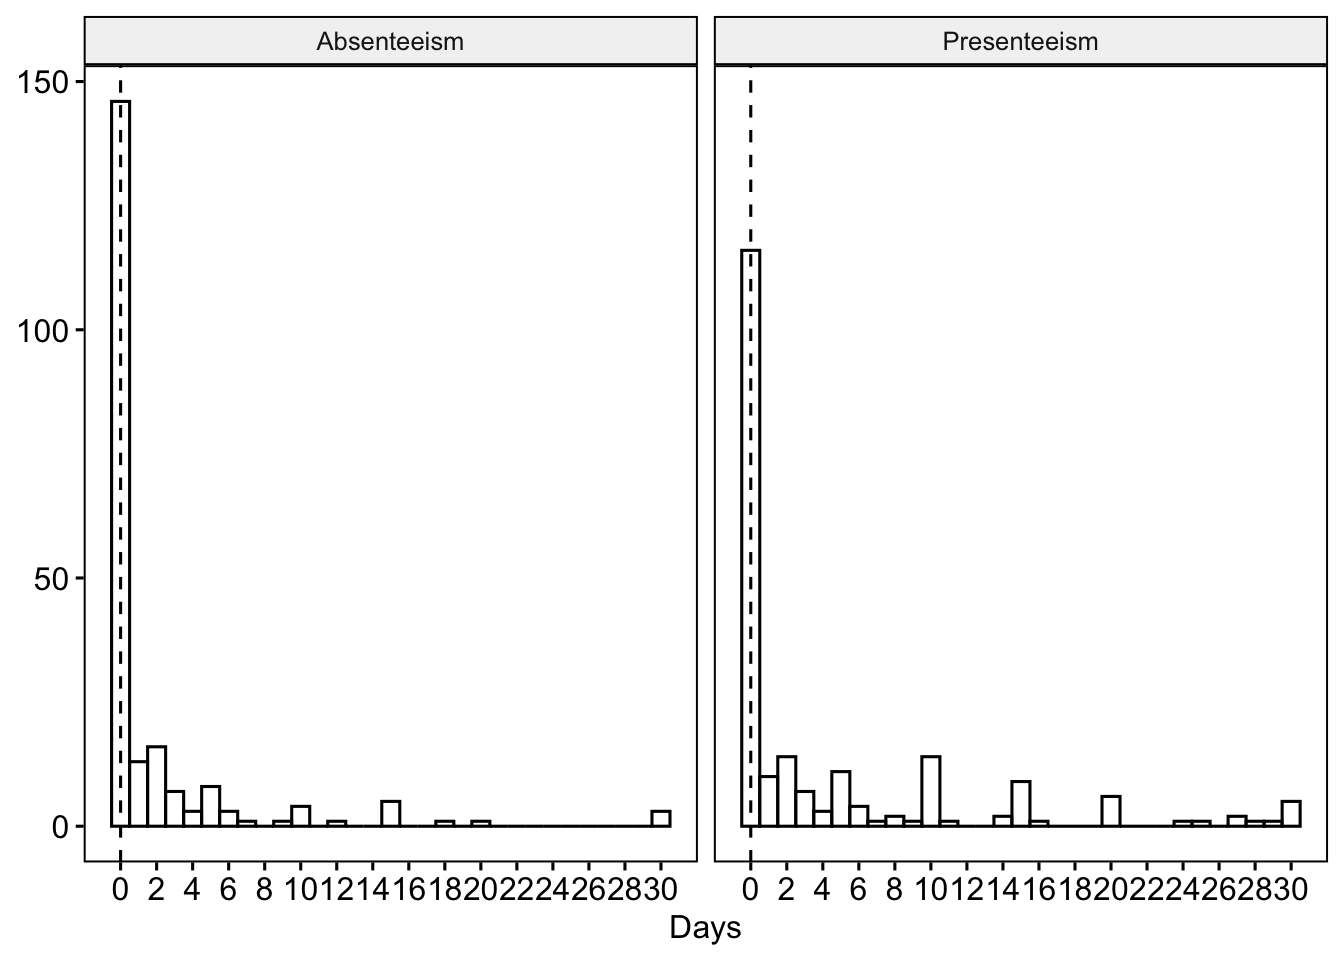
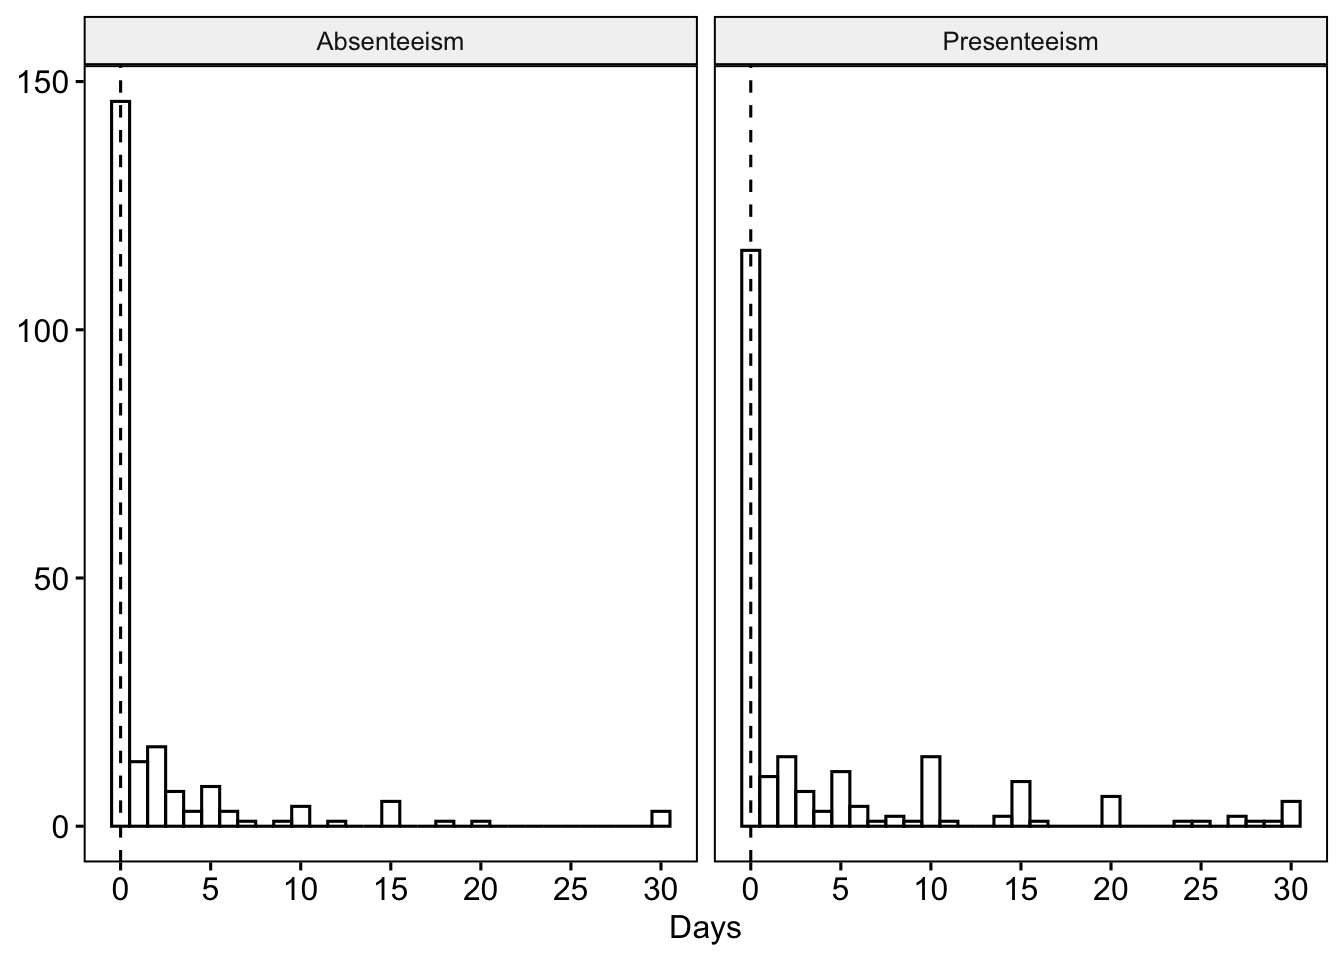
update univariate

diff --git a/docs/posts/icare.html b/docs/posts/icare.html
@@ -183,10 +183,6 @@ pre > code.sourceCode > span > a:first-child::before { text-decoration: underlin
 </li>
       </ul>
   </li>
-        <li class="sidebar-item sidebar-item-section">
-      <span class="sidebar-item-text sidebar-link text-start">
- <span class="menu-text">Analyses</span></span>
-  </li>
     </ul>
     </div>
 </nav>
@@ -217,7 +213,7 @@ pre > code.sourceCode > span > a:first-child::before { text-decoration: underlin
 
 <section id="modelling-alcohol-and-other-drug-use-psychological-distress-and-occupational-functioning-in-australian-public-safety-personnel" class="level2">
 <h2 class="anchored" data-anchor-id="modelling-alcohol-and-other-drug-use-psychological-distress-and-occupational-functioning-in-australian-public-safety-personnel">Modelling Alcohol and Other Drug Use, Psychological Distress, and Occupational Functioning in Australian Public Safety Personnel</h2>
-<p>(full script at bottom of page)</p>
+<p>(full script at bottom of page to come)</p>
 </section>
 <section id="research-questionaims" class="level2">
 <h2 class="anchored" data-anchor-id="research-questionaims">Research Question/Aims</h2>
@@ -250,24 +246,27 @@ pre > code.sourceCode > span > a:first-child::before { text-decoration: underlin
 <li>large proportion of zeros</li>
 </ul>
 <div class="cell">
-<div class="code-copy-outer-scaffold"><div class="sourceCode cell-code" id="cb1"><pre class="sourceCode r code-with-copy"><code class="sourceCode r"><span id="cb1-1"><a href="#cb1-1" aria-hidden="true" tabindex="-1"></a>df <span class="sc">%&gt;%</span> </span>
+<div class="code-copy-outer-scaffold"><div class="sourceCode cell-code" id="cb1"><pre class="sourceCode r code-with-copy"><code class="sourceCode r"><span id="cb1-1"><a href="#cb1-1" aria-hidden="true" tabindex="-1"></a>df <span class="sc">%&gt;%</span></span>
 <span id="cb1-2"><a href="#cb1-2" aria-hidden="true" tabindex="-1"></a>  dplyr<span class="sc">::</span><span class="fu">select</span>(</span>
-<span id="cb1-3"><a href="#cb1-3" aria-hidden="true" tabindex="-1"></a>    <span class="at">Absenteeism =</span> k10_11_absenteeism, <span class="at">Presenteeism =</span> k10_12_presenteeism) <span class="sc">|&gt;</span> </span>
-<span id="cb1-4"><a href="#cb1-4" aria-hidden="true" tabindex="-1"></a>  <span class="fu">pivot_longer</span>(</span>
-<span id="cb1-5"><a href="#cb1-5" aria-hidden="true" tabindex="-1"></a>    <span class="at">cols =</span> <span class="fu">c</span>(Absenteeism, Presenteeism),</span>
-<span id="cb1-6"><a href="#cb1-6" aria-hidden="true" tabindex="-1"></a>    <span class="at">names_to =</span> <span class="st">"Variable"</span>,</span>
-<span id="cb1-7"><a href="#cb1-7" aria-hidden="true" tabindex="-1"></a>    <span class="at">values_to =</span> <span class="st">"Days"</span>) <span class="sc">|&gt;</span> </span>
-<span id="cb1-8"><a href="#cb1-8" aria-hidden="true" tabindex="-1"></a>    <span class="fu">filter</span>(<span class="sc">!</span><span class="fu">is.na</span>(Days)) <span class="sc">|&gt;</span> </span>
-<span id="cb1-9"><a href="#cb1-9" aria-hidden="true" tabindex="-1"></a>    <span class="fu">gghistogram</span>(</span>
-<span id="cb1-10"><a href="#cb1-10" aria-hidden="true" tabindex="-1"></a>        <span class="at">x =</span> <span class="st">"Days"</span>, </span>
-<span id="cb1-11"><a href="#cb1-11" aria-hidden="true" tabindex="-1"></a>        <span class="at">y =</span> <span class="st">"count"</span>, </span>
-<span id="cb1-12"><a href="#cb1-12" aria-hidden="true" tabindex="-1"></a>        <span class="at">xlab =</span> <span class="st">"Days"</span>, </span>
-<span id="cb1-13"><a href="#cb1-13" aria-hidden="true" tabindex="-1"></a>        <span class="at">ylab =</span> <span class="cn">FALSE</span>, </span>
-<span id="cb1-14"><a href="#cb1-14" aria-hidden="true" tabindex="-1"></a>        <span class="at">add =</span> <span class="st">"median"</span>,</span>
-<span id="cb1-15"><a href="#cb1-15" aria-hidden="true" tabindex="-1"></a>        <span class="at">facet.by =</span> <span class="st">"Variable"</span>, </span>
-<span id="cb1-16"><a href="#cb1-16" aria-hidden="true" tabindex="-1"></a>        <span class="at">binwidth =</span> <span class="dv">1</span></span>
-<span id="cb1-17"><a href="#cb1-17" aria-hidden="true" tabindex="-1"></a>    ) <span class="sc">+</span></span>
-<span id="cb1-18"><a href="#cb1-18" aria-hidden="true" tabindex="-1"></a>    <span class="fu">scale_x_continuous</span>(<span class="at">breaks =</span> <span class="fu">seq</span>(<span class="dv">0</span>, <span class="dv">30</span>, <span class="at">by =</span> <span class="dv">2</span>))</span></code></pre></div><button title="Copy to Clipboard" class="code-copy-button"><i class="bi"></i></button></div>
+<span id="cb1-3"><a href="#cb1-3" aria-hidden="true" tabindex="-1"></a>    <span class="at">Absenteeism =</span> k10_11_absenteeism,</span>
+<span id="cb1-4"><a href="#cb1-4" aria-hidden="true" tabindex="-1"></a>    <span class="at">Presenteeism =</span> k10_12_presenteeism</span>
+<span id="cb1-5"><a href="#cb1-5" aria-hidden="true" tabindex="-1"></a>  ) <span class="sc">|&gt;</span></span>
+<span id="cb1-6"><a href="#cb1-6" aria-hidden="true" tabindex="-1"></a>  <span class="fu">pivot_longer</span>(</span>
+<span id="cb1-7"><a href="#cb1-7" aria-hidden="true" tabindex="-1"></a>    <span class="at">cols =</span> <span class="fu">c</span>(Absenteeism, Presenteeism),</span>
+<span id="cb1-8"><a href="#cb1-8" aria-hidden="true" tabindex="-1"></a>    <span class="at">names_to =</span> <span class="st">"Variable"</span>,</span>
+<span id="cb1-9"><a href="#cb1-9" aria-hidden="true" tabindex="-1"></a>    <span class="at">values_to =</span> <span class="st">"Days"</span></span>
+<span id="cb1-10"><a href="#cb1-10" aria-hidden="true" tabindex="-1"></a>  ) <span class="sc">|&gt;</span></span>
+<span id="cb1-11"><a href="#cb1-11" aria-hidden="true" tabindex="-1"></a>  <span class="fu">filter</span>(<span class="sc">!</span><span class="fu">is.na</span>(Days)) <span class="sc">|&gt;</span></span>
+<span id="cb1-12"><a href="#cb1-12" aria-hidden="true" tabindex="-1"></a>  <span class="fu">gghistogram</span>(</span>
+<span id="cb1-13"><a href="#cb1-13" aria-hidden="true" tabindex="-1"></a>    <span class="at">x =</span> <span class="st">"Days"</span>,</span>
+<span id="cb1-14"><a href="#cb1-14" aria-hidden="true" tabindex="-1"></a>    <span class="at">y =</span> <span class="st">"count"</span>,</span>
+<span id="cb1-15"><a href="#cb1-15" aria-hidden="true" tabindex="-1"></a>    <span class="at">xlab =</span> <span class="st">"Days"</span>,</span>
+<span id="cb1-16"><a href="#cb1-16" aria-hidden="true" tabindex="-1"></a>    <span class="at">ylab =</span> <span class="cn">FALSE</span>,</span>
+<span id="cb1-17"><a href="#cb1-17" aria-hidden="true" tabindex="-1"></a>    <span class="at">add =</span> <span class="st">"median"</span>,</span>
+<span id="cb1-18"><a href="#cb1-18" aria-hidden="true" tabindex="-1"></a>    <span class="at">facet.by =</span> <span class="st">"Variable"</span>,</span>
+<span id="cb1-19"><a href="#cb1-19" aria-hidden="true" tabindex="-1"></a>    <span class="at">binwidth =</span> <span class="dv">1</span></span>
+<span id="cb1-20"><a href="#cb1-20" aria-hidden="true" tabindex="-1"></a>  ) <span class="sc">+</span></span>
+<span id="cb1-21"><a href="#cb1-21" aria-hidden="true" tabindex="-1"></a>  <span class="fu">scale_x_continuous</span>(<span class="at">breaks =</span> <span class="fu">seq</span>(<span class="dv">0</span>, <span class="dv">30</span>, <span class="at">by =</span> <span class="dv">5</span>))</span></code></pre></div><button title="Copy to Clipboard" class="code-copy-button"><i class="bi"></i></button></div>
 <div class="cell-output-display">
 <div>
 <figure class="figure">
@@ -319,7 +318,7 @@ pre > code.sourceCode > span > a:first-child::before { text-decoration: underlin
 <ul>
 <li>identify potential associations</li>
 <li>understand variable-specific effects</li>
-<li>provide context before multivariable analyses</li>
+<li>identify which covariates to include in multivariable analysis</li>
 </ul>
 
 
